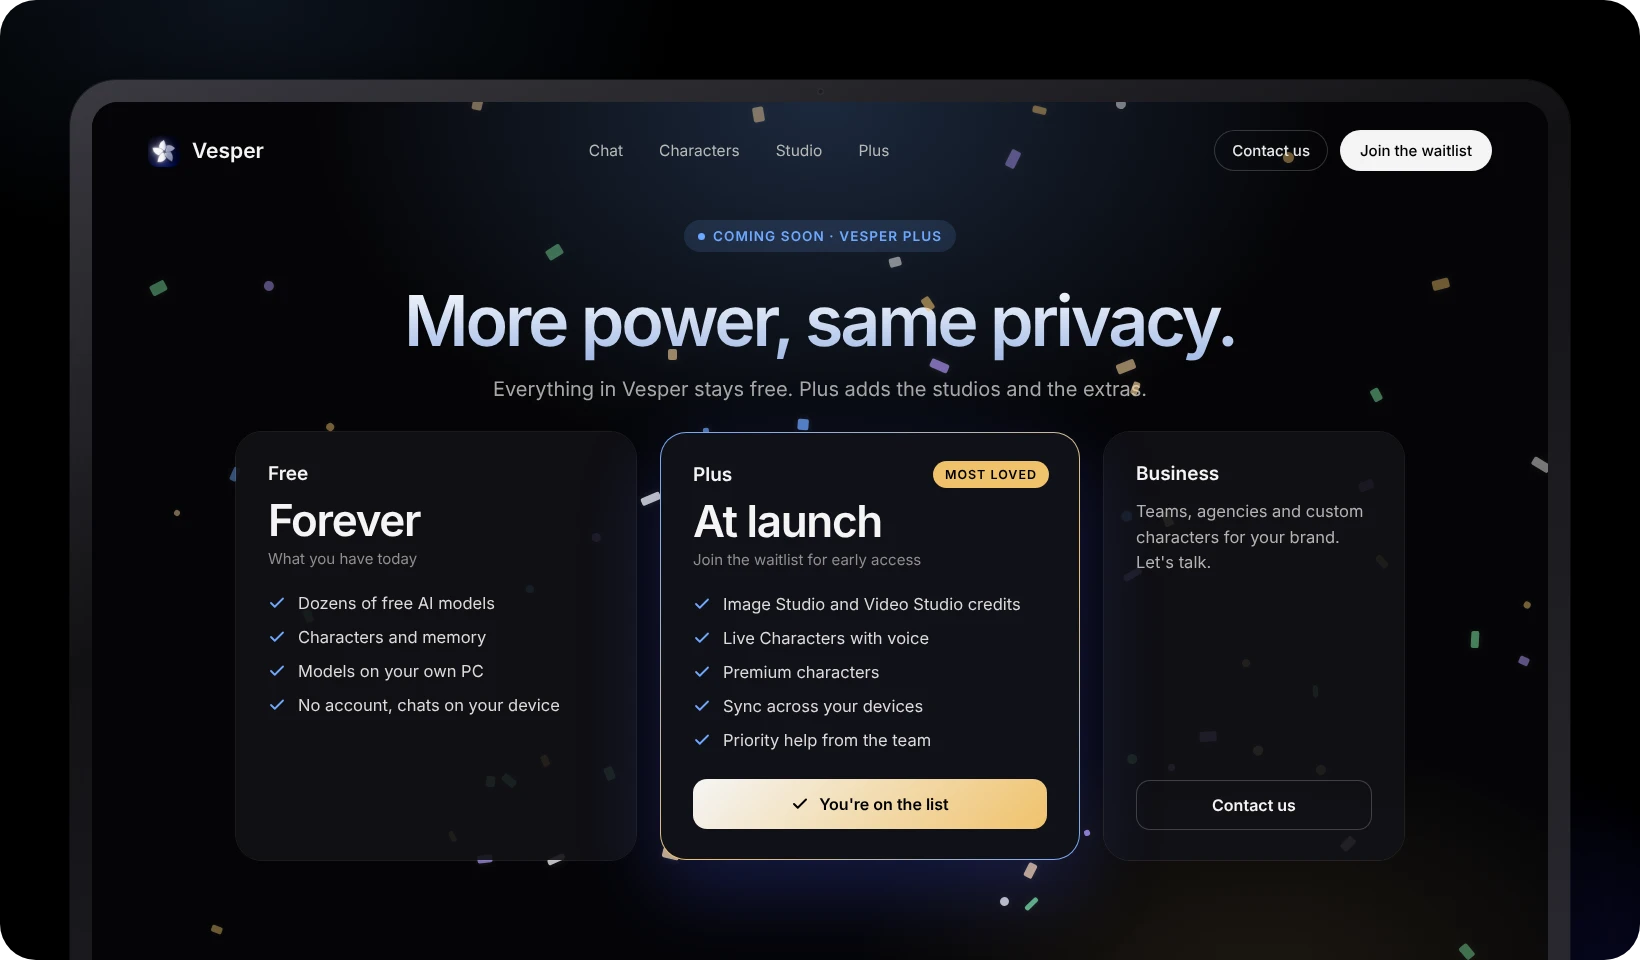
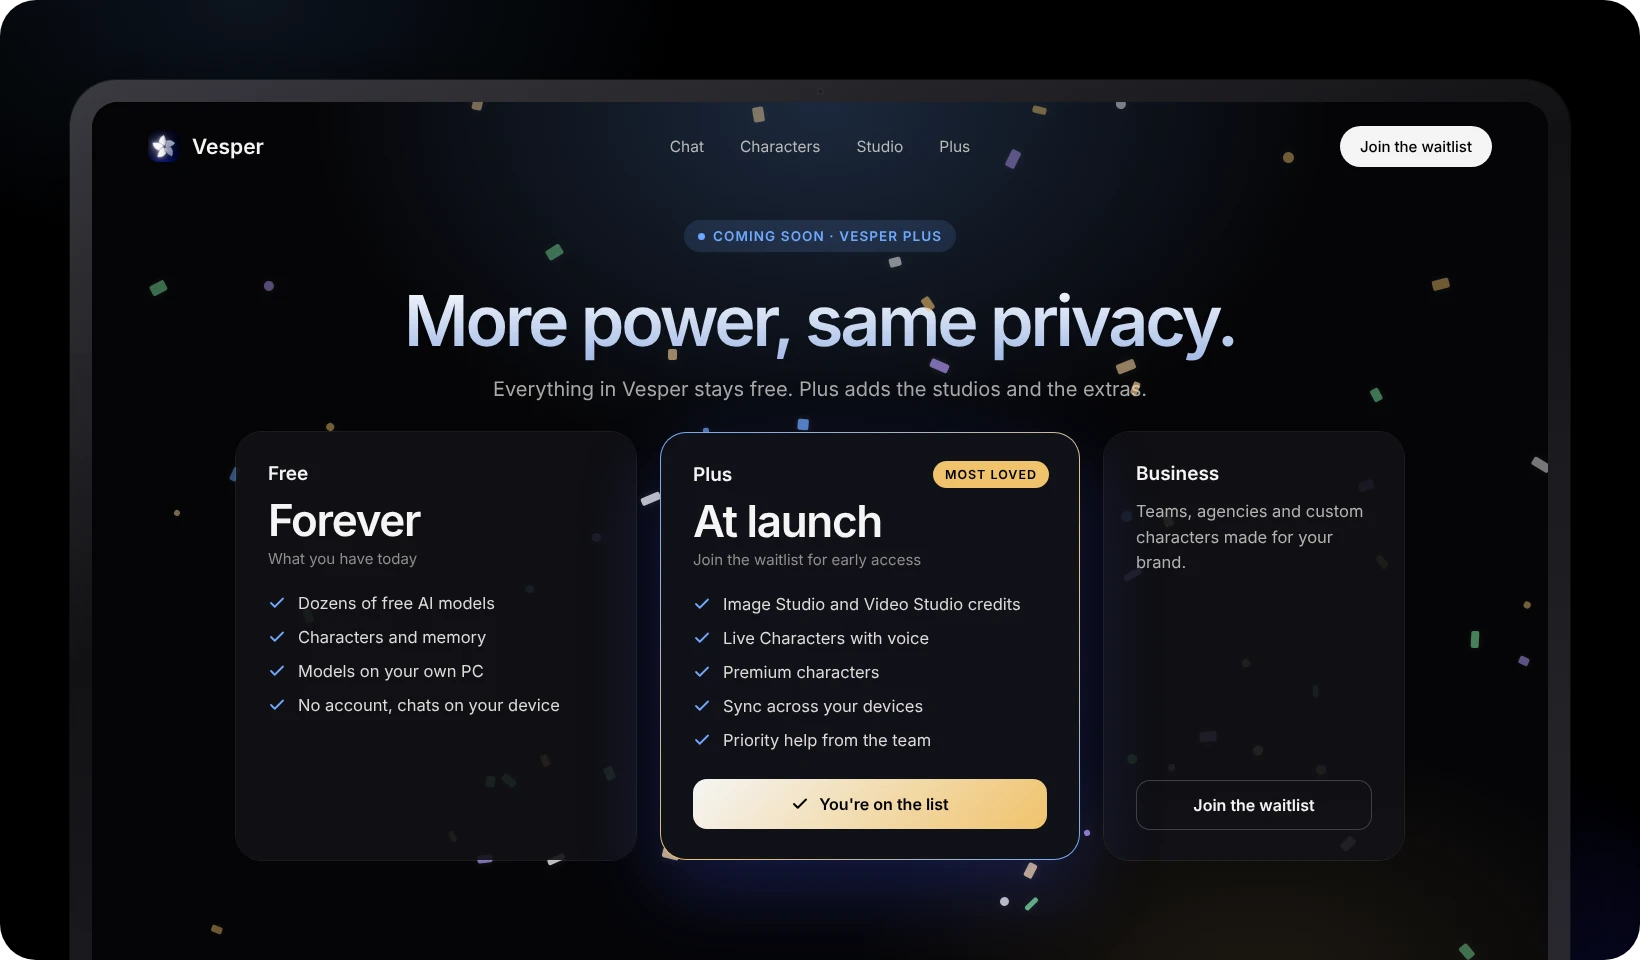
README art: nav links truly centered, Contact us only for the whole app
Claude-Session: https://claude.ai/code/session_01Pqes7qMJVCgUAH6HtcUGzX

diff --git a/docs/art/make-art.js b/docs/art/make-art.js
@@ -259,8 +259,8 @@ async function compose(browser, base) {
   const chk = '<svg width="18" height="18" viewBox="0 0 24 24" fill="none" stroke="#6ea8ff" stroke-width="2.4" stroke-linecap="round" stroke-linejoin="round"><path d="M20 6 9 17l-5-5"/></svg>';
   const nav = `<div style="position:absolute;left:0;right:0;top:0;z-index:3;display:flex;align-items:center;justify-content:space-between;padding:28px 56px">
       <div style="display:flex;align-items:center;gap:12px;font-size:21px;font-weight:600"><img src="/icons/chrome/icon-192.png" style="width:32px;height:32px;border-radius:9px">Vesper</div>
-      <div style="display:flex;gap:36px;font-size:15.5px;color:#b9b9b6"><span>Chat</span><span>Characters</span><span>Studio</span><span>Plus</span></div>
-      <div style="display:flex;gap:12px;font-size:15px;font-weight:500"><span style="padding:11px 18px;border-radius:999px;color:#e9e9e7;box-shadow:inset 0 0 0 1px rgba(255,255,255,.18)">Contact us</span><span style="padding:11px 20px;border-radius:999px;background:#f5f5f4;color:#000">Join the waitlist</span></div></div>`;
+      <div style="position:absolute;left:50%;transform:translateX(-50%);display:flex;gap:36px;font-size:15.5px;color:#b9b9b6"><span>Chat</span><span>Characters</span><span>Studio</span><span>Plus</span></div>
+      <div style="font-size:15px;font-weight:500"><span style="padding:11px 20px;border-radius:999px;background:#f5f5f4;color:#000">Join the waitlist</span></div></div>`;
   const chip = t => `<div style="display:inline-flex;align-items:center;gap:8px;font-size:13.5px;font-weight:600;letter-spacing:.08em;text-transform:uppercase;color:#6ea8ff;background:rgba(110,168,255,.14);padding:8px 14px;border-radius:999px;margin-bottom:26px"><i style="width:7px;height:7px;border-radius:50%;background:#6ea8ff"></i>${t}</div>`;
   const h1 = t => `<div style="font-size:74px;font-weight:600;letter-spacing:-.045em;line-height:1.02">${t}</div>`;
   const sub = t => `<div style="font-size:21px;color:#b4b4b1;line-height:1.5;margin-top:22px;max-width:30em">${t}</div>`;
@@ -308,8 +308,8 @@ async function compose(browser, base) {
           ${list(["Image Studio and Video Studio credits", "Live Characters with voice", "Premium characters", "Sync across your devices", "Priority help from the team"])}
           <div style="margin-top:22px;display:flex;align-items:center;justify-content:center;gap:10px;font-size:16px;font-weight:600;padding:15px;border-radius:14px;background:linear-gradient(135deg,#f5f5f4,#f0c26b);color:#000"><svg width="18" height="18" viewBox="0 0 24 24" fill="none" stroke="#000" stroke-width="2.6" stroke-linecap="round" stroke-linejoin="round"><path d="M20 6 9 17l-5-5"/></svg>You're on the list</div></div>
         <div style="width:300px;padding:30px 32px;border-radius:26px;background:rgba(18,18,22,.9);box-shadow:0 0 0 1px rgba(255,255,255,.09);display:flex;flex-direction:column">
-          <div style="font-size:19px;font-weight:600">Business</div><div style="font-size:16.5px;color:#b4b4b1;line-height:1.55;margin:14px 0 auto">Teams, agencies and custom characters for your brand. Let's talk.</div>
-          <div style="margin-top:22px;text-align:center;font-size:16px;font-weight:600;padding:15px;border-radius:14px;color:#f5f5f4;box-shadow:inset 0 0 0 1px rgba(255,255,255,.2)">Contact us</div></div>
+          <div style="font-size:19px;font-weight:600">Business</div><div style="font-size:16.5px;color:#b4b4b1;line-height:1.55;margin:14px 0 auto">Teams, agencies and custom characters made for your brand.</div>
+          <div style="margin-top:22px;text-align:center;font-size:16px;font-weight:600;padding:15px;border-radius:14px;color:#f5f5f4;box-shadow:inset 0 0 0 1px rgba(255,255,255,.2)">Join the waitlist</div></div>
       </div>`), 1640), 1640);
 
   const fin = ["chrome", "gold", "rose", "graphite", "midnight", "emerald"];
